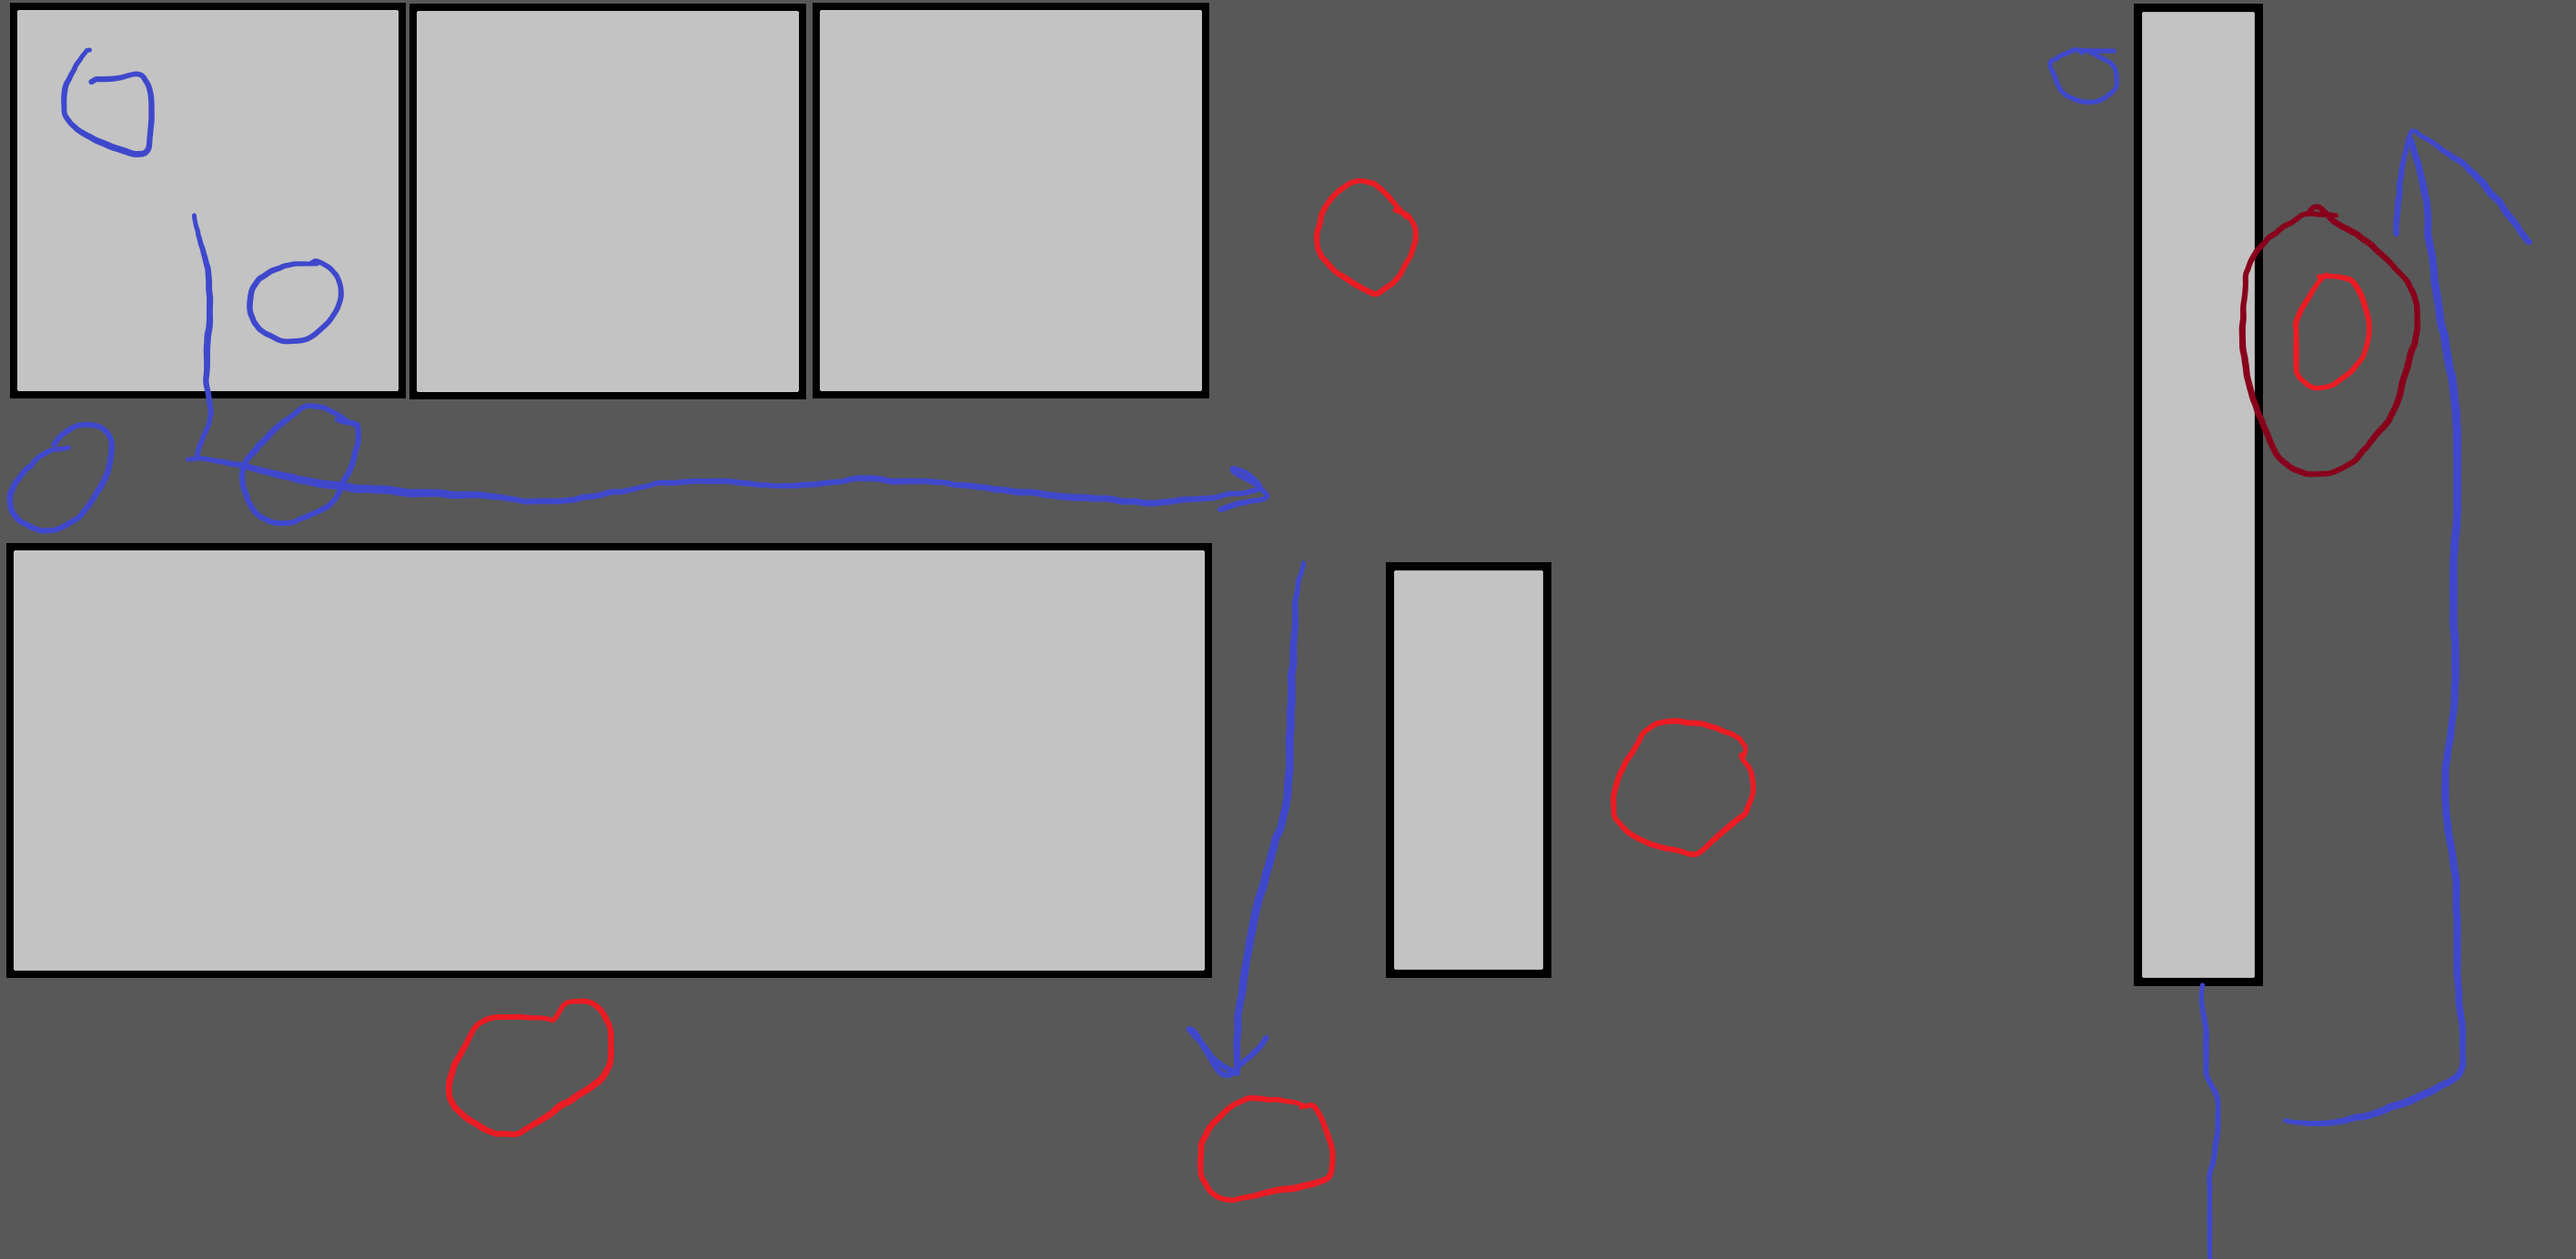
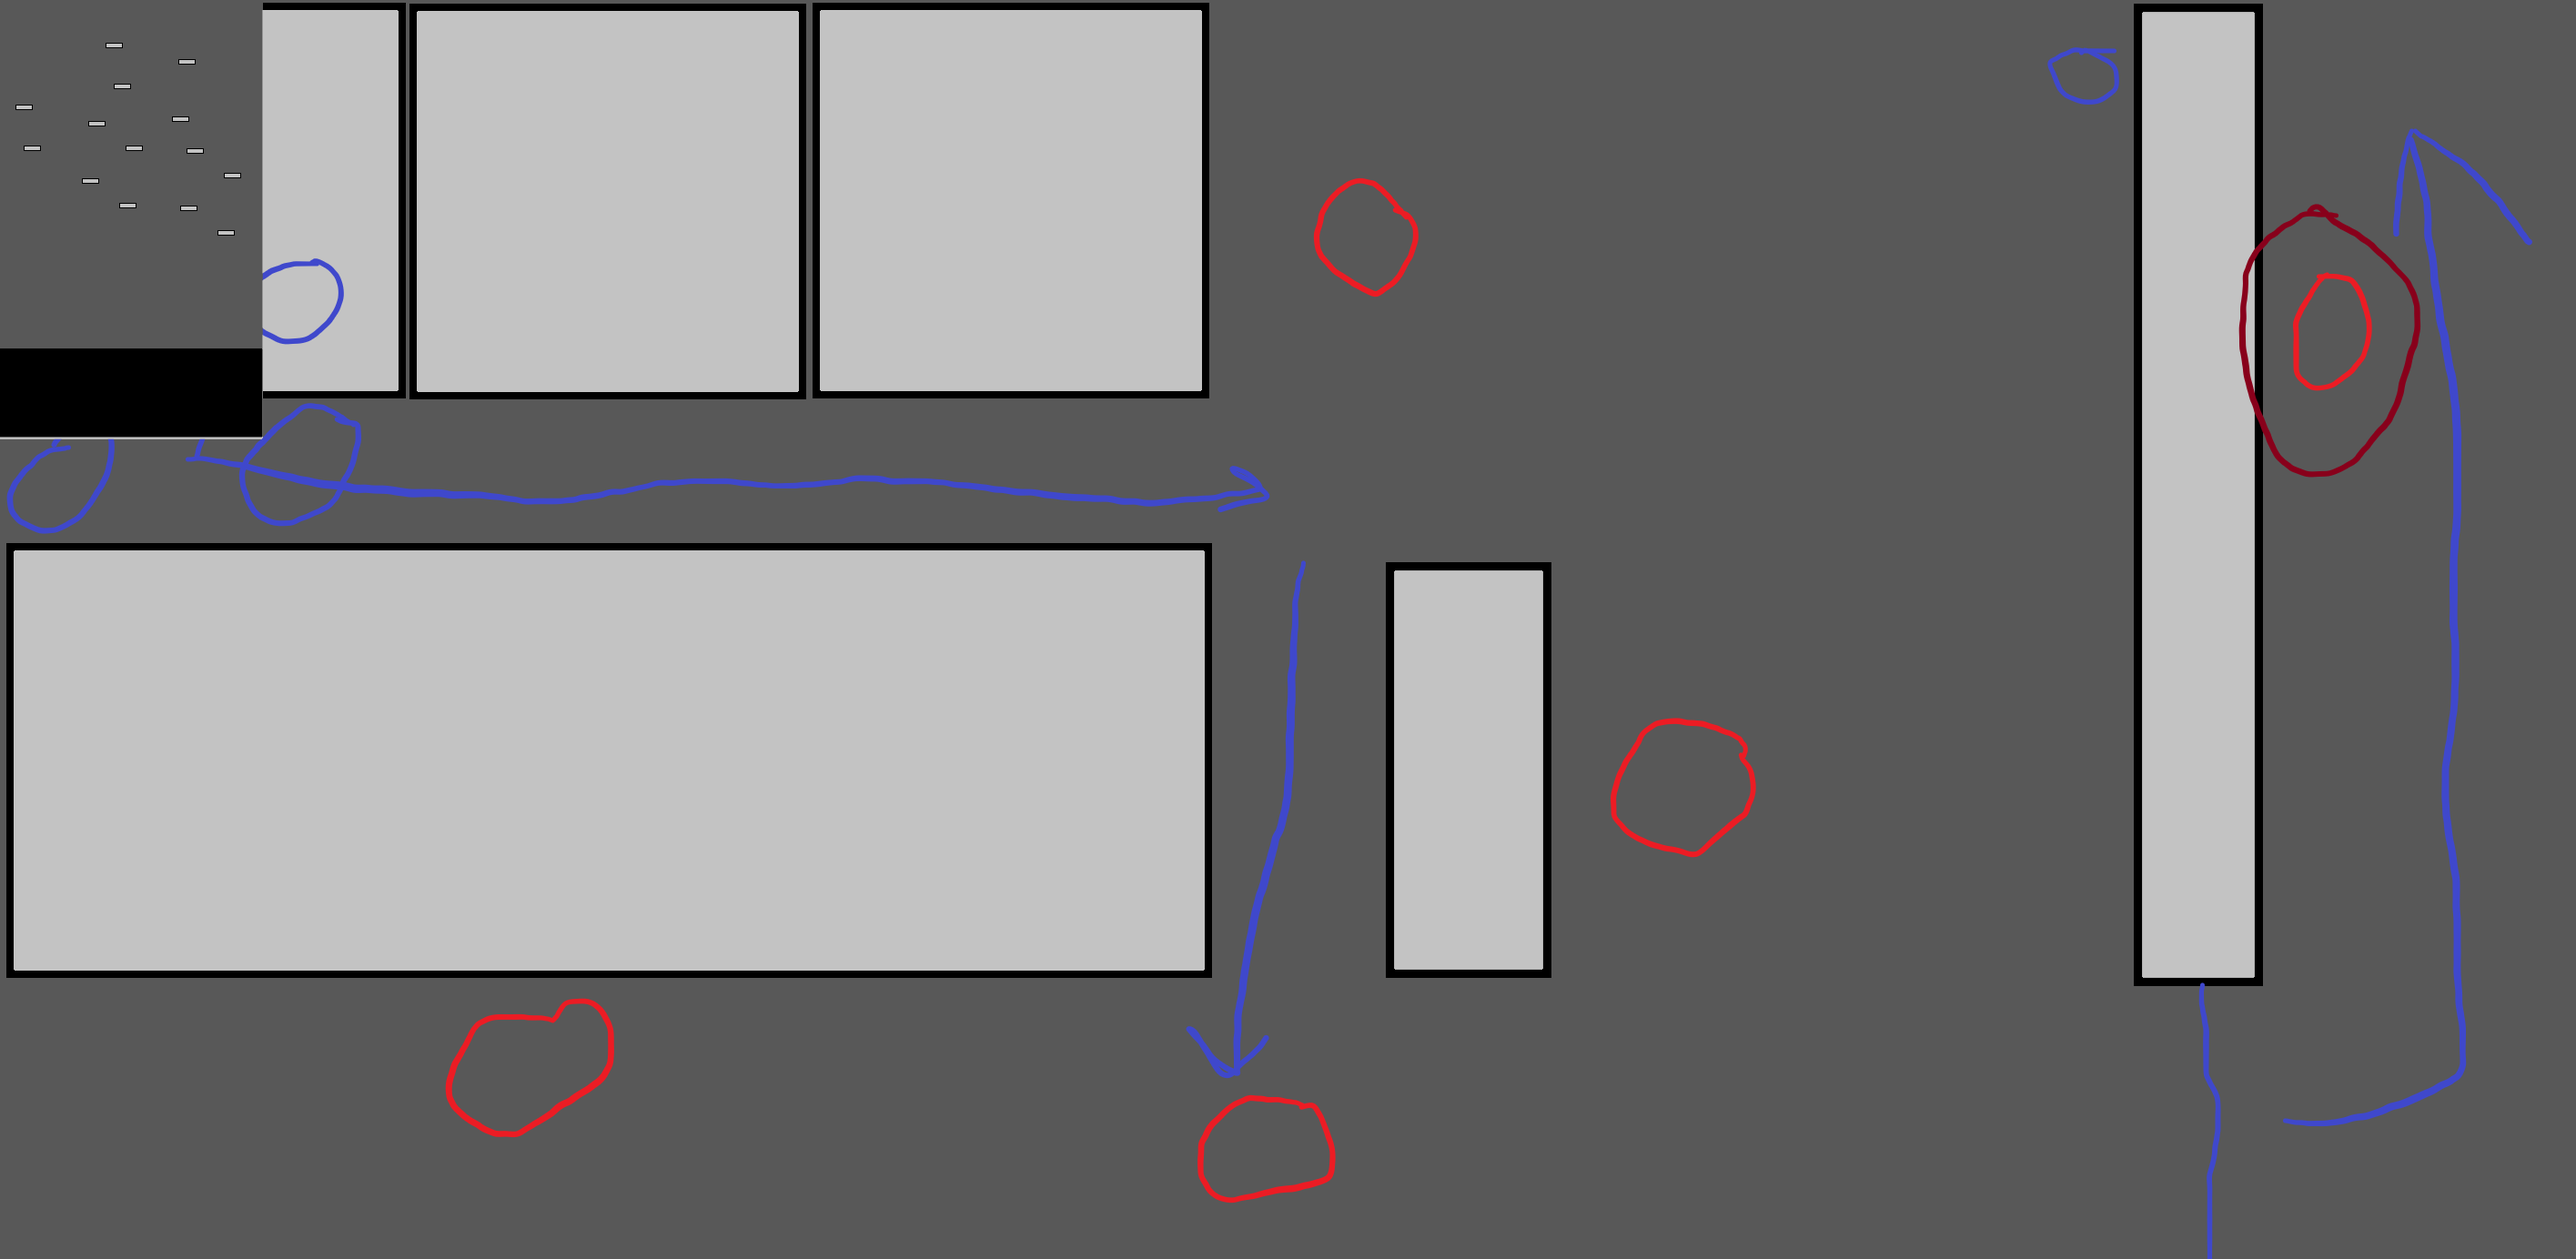
some tiles are now not walkable

Changed region(s): [[0.0, 0.0, 0.1243, 0.3728]]

diff --git a/src/main.py b/src/main.py
@@ -1,5 +1,6 @@
 import pygame
 import random
+from pathlib import Path
 
 pygame.init()
 gameWidth = 1920
@@ -9,8 +10,6 @@ pygame.display.set_caption("Code FE")
 running = True
 
 #------ load assets --------
-from pathlib import Path
-
 
 ## Tiles
 grassTilePic = pygame.image.load(Path(__file__).parent / "../assets/grassTile.png")
@@ -558,7 +557,8 @@ enemyUnits.append(enemy1)
 activeEnemyUnits.append(enemy)
 activeEnemyUnits.append(enemy1)
 
-        
+for i in range(3):
+    map1.tiles[i][4].walkable = False
 
 def findPlayerTarget(tiles, unit):
     possibleTargets = []
@@ -591,7 +591,7 @@ def findTilesInMovRange(unit):
         queue.sort(key=lambda tile:tile.distance)
         currTile = queue.pop(0)
         if unit in playerUnits:
-            if currTile.distance <= currentUnit.mov and (currTile.currentUnit == None or currTile.currentUnit in playerUnits):
+            if currTile.distance <= currentUnit.mov and currTile.walkable and (currTile.currentUnit == None or currTile.currentUnit in playerUnits):
                 tilesInRange.append(currTile)
                 added.append(currTile)
                 for tile in currTile.adjList:
@@ -602,7 +602,7 @@ def findTilesInMovRange(unit):
                             tile.parent = currTile
                         queue.append(tile)
         else:
-            if currTile.distance <= currentUnit.mov and (currTile.currentUnit == None or currTile.currentUnit in enemyUnits):
+            if currTile.distance <= currentUnit.mov and currTile.walkable and (currTile.currentUnit == None or currTile.currentUnit in enemyUnits):
                 tilesInRange.append(currTile)
                 added.append(currTile)
                 for tile in currTile.adjList:
